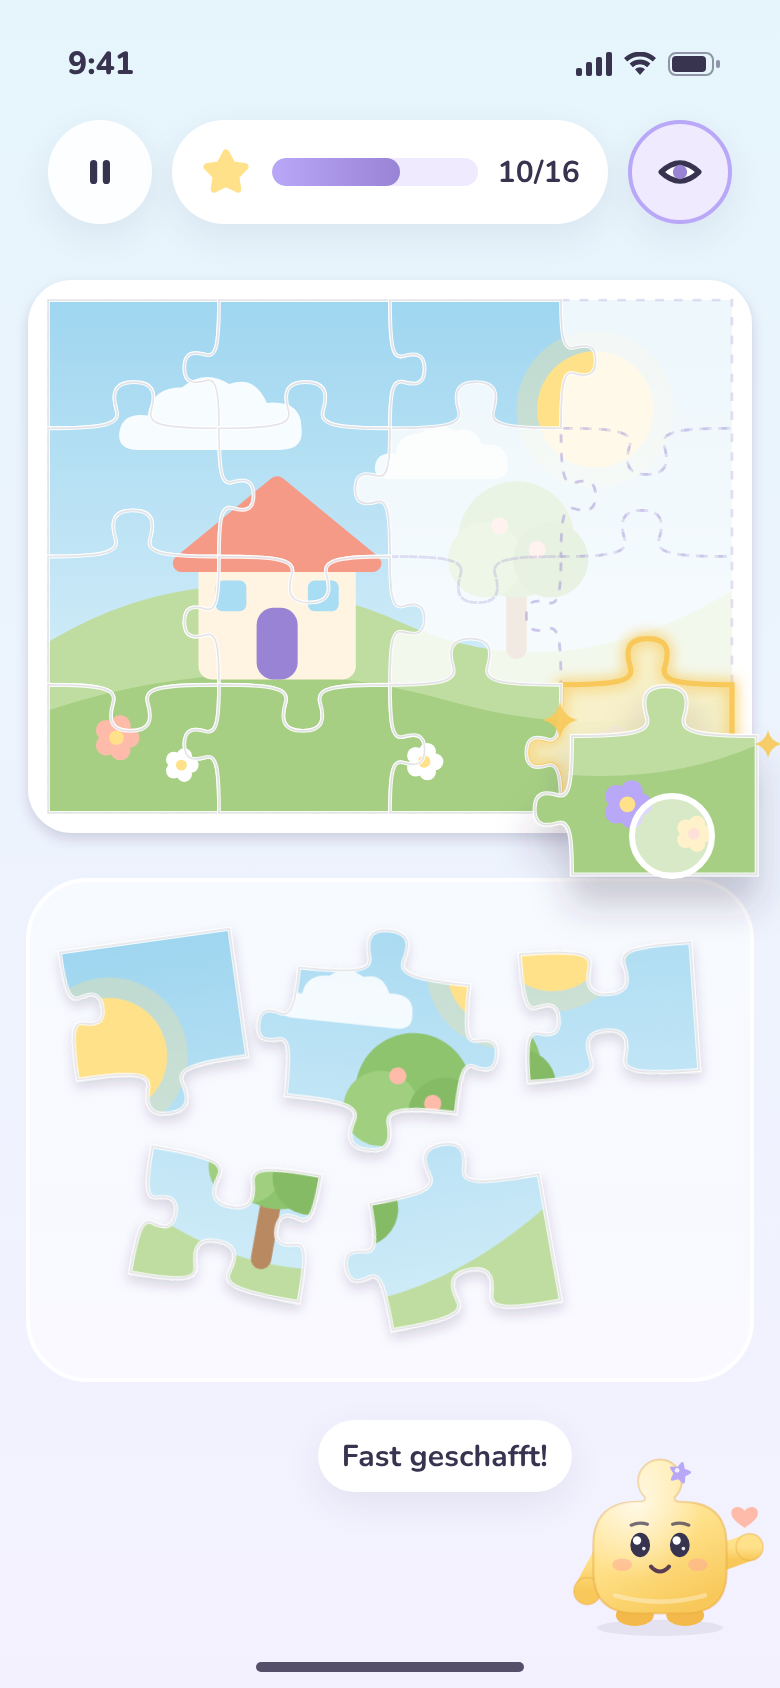
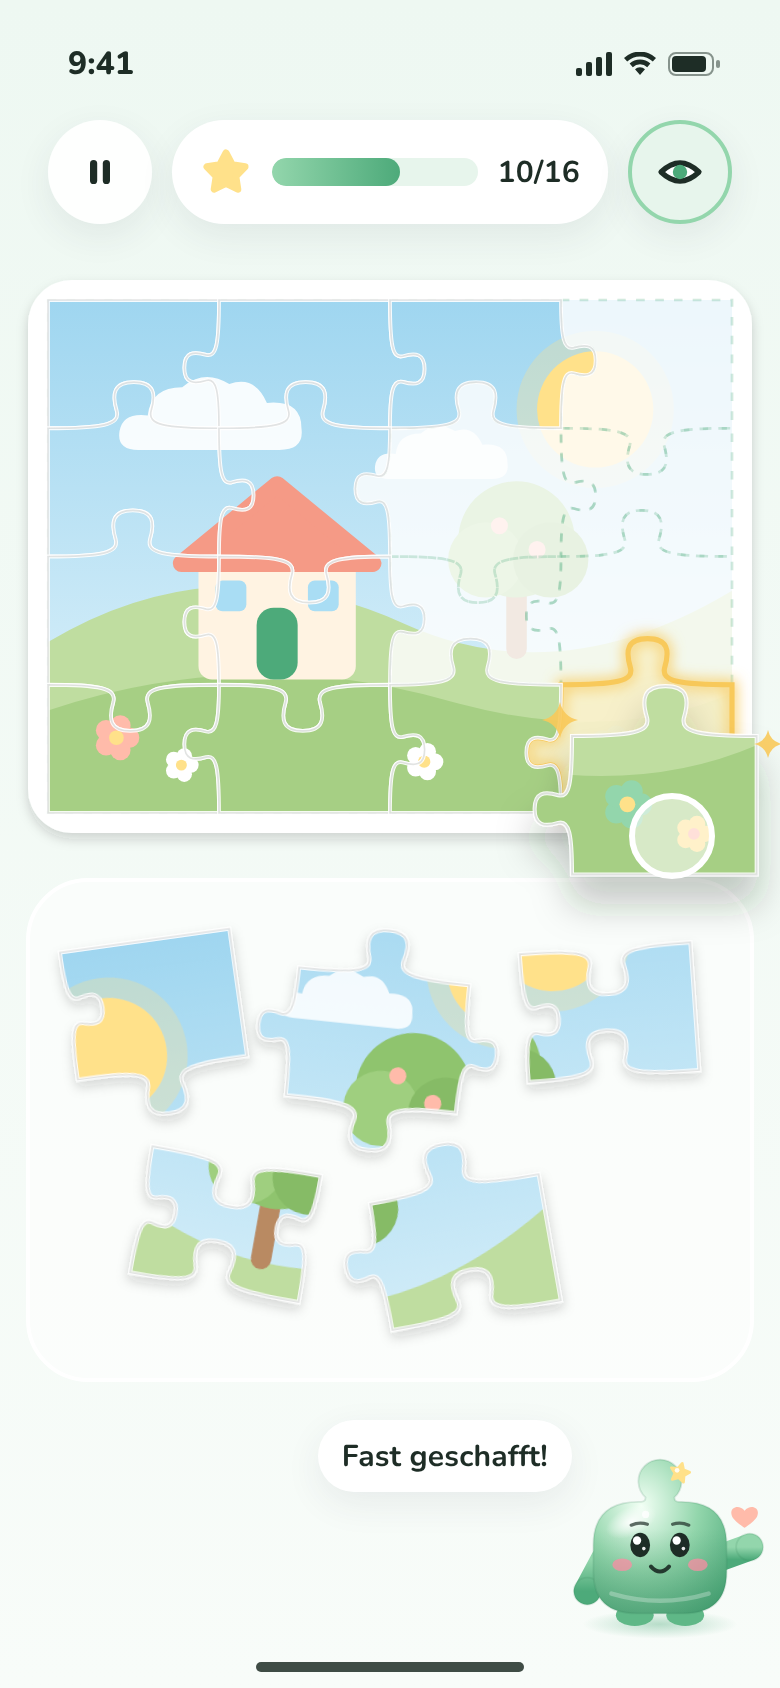
docs: describe the mint style (change 02), re-render concept mockups
Claude-Session: https://claude.ai/code/session_01CZ9FFcy5zGQryXQRGVkaUU

diff --git a/docs/design/design-system.md b/docs/design/design-system.md
@@ -5,6 +5,7 @@
 > Visuelle Übersicht: [`concept/concept-design-tokens.png`](concept/concept-design-tokens.png)
 
 **Stil:** Soft Pastel Cartoon · Whimsical Illustration · Premium Kids App · Gentle Playful UI
+**Stil-Update 2026-11-04 (PO-Referenz):** frisches **Mint/Grün** statt Lavendel/Lila, weiches glänzendes 3D beim Maskottchen, dunkelgrüne Haupt-Knöpfe mit weißer Schrift. Gelb, Himmelblau, Pfirsich bleiben Akzentfarben (Sterne, Belohnungen, Kategorien).
 Grundlage: [reference-analysis.md](reference-analysis.md)
 
 ## 1. Prinzipien
@@ -18,32 +19,32 @@ Grundlage: [reference-analysis.md](reference-analysis.md)
 
 ## 2. Farben
 
-| Rolle                | Token                              | Wert                  | Verwendung                            |
-| -------------------- | ---------------------------------- | --------------------- | ------------------------------------- |
-| Haupt-Hintergrund    | `color.background.primary`         | `#FFF8ED`             | dominante Fläche                      |
-| Sekundär-Hintergrund | `color.background.secondary`       | `#F9EAF0`             | Verläufe, Sektionen                   |
-| Marke                | `color.brand.lavender` / `.purple` | `#B9A7F8` / `#9983D4` | Wiedererkennung, Fortschritt, Auswahl |
-| Primär-Aktion        | `color.action.primary`             | `#9983D4`             | „Weiter“, „Puzzle erstellen“          |
-| Positive Aktion      | `color.action.accent`              | `#FFE18A`             | „Los geht's“, „Spielen“, Belohnung    |
-| Ergänzung            | `palette.sky`, `palette.mint`      | `#A9DDF4`, `#B7E7D1`  | Spieltisch, Erfolg                    |
-| Text primär          | `color.text.primary`               | `#38334F`             | Titel, Labels                         |
-| Text sekundär        | `color.text.secondary`             | `#6C6680`             | Fließtext (AA-konform, s. Analyse)    |
+| Rolle                | Token                                    | Wert                              | Verwendung                                                       |
+| -------------------- | ---------------------------------------- | --------------------------------- | ---------------------------------------------------------------- |
+| Haupt-Hintergrund    | `color.background.primary` (`mist`)      | `#F4FAF6`                         | dominante Fläche, Mint-Weiß                                      |
+| Sekundär-Hintergrund | `color.background.secondary` (`mist200`) | `#E8F4EC`                         | Verläufe, Sektionen                                              |
+| Marke                | `color.brand.soft` / `.main` / `.strong` | `#93D6AC` / `#4DAA7A` / `#1D4A36` | Tab-Blase, Auswahl, Fortschritt; `strong` für kleinen Markentext |
+| Haupt-Aktion         | `color.action.accent` (`forest`)         | `#1D4A36`                         | „Los geht's“, „Zum Atelier“ – weiße Schrift                      |
+| Bestätigen           | `color.action.primary` (`leaf700`)       | `#2F7F57`                         | „Weiter“, „Fertig“ – weiße Schrift                               |
+| Akzente              | `palette.yellow`, `sky`, `peach`, `pink` | `#FFE18A` …                       | Sterne, Belohnungen, Kategorie-Karten                            |
+| Text primär          | `color.text.primary` (`ink`)             | `#1E2D26`                         | Titel, Labels                                                    |
+| Text sekundär        | `color.text.secondary` (`slate`)         | `#56655D`                         | Fließtext                                                        |
 
-Tonstufen `*100` = Kartenflächen, `*600` = gedrückt/Icons, `purple700` = kleiner Text auf hellen Flächen.
+Tonstufen `*100` = Kartenflächen, `leaf600/700` = Icons/Schalter, `forest` = kleiner Markentext und Haupt-Knöpfe.
 
-**Kontrastregeln (WCAG 2.2 AA):**
+**Kontrastregeln (WCAG 2.2 AA, in `tokens.test.ts` geprüft):**
 
-- Navy auf allen Hintergründen: ≥ 9 : 1 ✅
-- Weiß auf `purple` (3,2 : 1) nur für **fette Labels ≥ 19 px** (Large Text). Kleinere Texte auf Lila → `purple700` bzw. Navy.
-- Navy auf Gelb-Button: 9,3 : 1 ✅
-- **Schalter** (`color.control.*`, WCAG 1.4.11 Nicht-Text-Kontrast ≥ 3 : 1, Phase 8): An = gefüllte Spur `purple600` mit weißem Knopf (≥ 4,1 : 1 auf allen Kartenflächen), Aus = umrandete Spur mit dunklem Knopf `greyPurple` (≥ 4,9 : 1). Der Zustand ist zusätzlich an der Knopfposition erkennbar – nie nur an der Farbe. Getestet in `packages/ui/test/tokens.test.ts`.
+- `ink` auf allen Flächen ≥ 12 : 1, `slate` ≥ 5,2 : 1 ✅
+- Weiß auf `forest` ≈ 10 : 1, auf `leaf700` ≈ 4,9 : 1 – beide Knopfvarianten für jede Schriftgröße ✅
+- `leaf600`/`leaf` nur für Flächen, Symbole und große Formen, **nie** für kleinen Text.
+- **Schalter** (`color.control.*`, WCAG 1.4.11 Nicht-Text-Kontrast ≥ 3 : 1, Phase 8): An = gefüllte Spur `leaf700` mit weißem Knopf (≥ 4,2 : 1 auf allen Kartenflächen), Aus = umrandete Spur mit dunklem Knopf `slate` (≥ 5,2 : 1). Der Zustand ist zusätzlich an der Knopfposition erkennbar – nie nur an der Farbe. Getestet in `packages/ui/test/tokens.test.ts`.
 
 ## 3. Verläufe
 
 | Token                                     | Einsatz                                            |
 | ----------------------------------------- | -------------------------------------------------- |
 | `gradient.screenWarm`                     | Standard-Hintergrund (Creme → Blush)               |
-| `gradient.screenDream`                    | Erzähl-/Creator-Screens (Lavendel-Hauch)           |
+| `gradient.screenDream`                    | Erzähl-/Creator-Screens (Mint-Hauch)               |
 | `gradient.playTable`                      | Spieltisch – kontrastarm, damit Teile hervortreten |
 | `gradient.buttonAccent` / `buttonPrimary` | Buttons (vertikal, hell → satt)                    |
 | `gradient.meadow`, `gradient.mascotBody`  | Illustration                                       |
@@ -76,7 +77,7 @@ Regeln: keine Gewichte < 600, keine Großbuchstaben-Fließtexte, Dynamic Type bi
 
 ## 6. Schatten
 
-Navy-getönt, max. zwei Ebenen pro Screen: `shadow.card` (Karten), `shadow.raised` (Buttons, Navigation), `shadow.lifted` (gezogenes Puzzleteil). Android über `elevation`.
+Grün-getönt (`ink`), max. zwei Ebenen pro Screen: `shadow.card` (Karten), `shadow.raised` (Buttons, Navigation), `shadow.lifted` (gezogenes Puzzleteil). Android über `elevation`.
 
 ## 7. Bewegung
 
@@ -114,7 +115,7 @@ Bausteine: `CloudIllustration`, `StarDecoration` (Stern, Funkeln), `Leaf`, `Flow
 | -------- | ----------------------- | --------------------------------- |
 | `meadow` | Welcome, Erfolg         | Wolken oben, Wiese + Blumen unten |
 | `sky`    | Home, Sammlung, Erfolge | 1–2 Wolken, 3–4 Sterne am Rand    |
-| `dream`  | Onboarding 2, Creator   | Lavendel-Verlauf, Wolken, Funkeln |
+| `dream`  | Onboarding 2, Creator   | Mint-Verlauf, Wolken, Funkeln     |
 | `table`  | Gameplay                | keine Dekoration (Fokus)          |
 | `calm`   | Elternbereich           | nur Verlauf                       |
 
@@ -122,7 +123,7 @@ Dekoration ist `pointerEvents="none"`, `accessible={false}` und liegt nie hinter
 
 ## 9. Ikonografie
 
-Eigene SVG-Icons (abgerundete Linien 2,6 px, zweifarbig: Navy-Kontur + Pastellfüllung; aktiv = Gelb-Füllung). Kein generisches Icon-Set als Ersatz für Illustrationen. Vorlage: `scripts/design-preview/decor.mjs` → in Phase 2 nach `packages/ui` portiert.
+Eigene SVG-Icons (abgerundete Linien 2,6 px, zweifarbig: dunkle Kontur (`ink`) + Pastellfüllung; aktiv = Gelb-Füllung). Kein generisches Icon-Set als Ersatz für Illustrationen. Vorlage: `scripts/design-preview/decor.mjs` → in Phase 2 nach `packages/ui` portiert.
 
 ## 10. Plattformkonsistenz
 

diff --git a/docs/previews/milestone-reports/2026-11-04-update-02-mint-style.md b/docs/previews/milestone-reports/2026-11-04-update-02-mint-style.md
@@ -1,0 +1,52 @@
+# Änderung 02 – Neuer Look: Mint und weiches 3D
+
+**Datum:** 2026-11-04 · **Anlass:** Wunsch des PO („Maskottchen und Farben diesem Stil anpassen“, Referenzbild mit weichem, glänzendem 3D in Mint) · Entscheidung des PO: **Mint/Grün als Grundfarbe** · **Status:** umgesetzt, wartet auf Review
+
+> Screenshots stammen aus der **laufenden App** (Web via Chromium; Android-/iOS-Läufe siehe unten). Die Pino-Übersicht ist direkt aus dem App-Code (`pinoSvg`) gerendert.
+
+## Was sich ändert
+
+| Bereich                             | Vorher                   | Jetzt                                                                                                                                                     |
+| ----------------------------------- | ------------------------ | --------------------------------------------------------------------------------------------------------------------------------------------------------- |
+| Markenfarbe                         | Lavendel / Lila          | frisches **Mint/Grün** (`leaf`-Skala), kleiner Markentext tief-grün (`forest`)                                                                            |
+| Hintergründe                        | Creme mit Rosa-Hauch     | helles **Mint-Weiß** (`mist`)                                                                                                                             |
+| Haupt-Knöpfe                        | gelb mit dunkler Schrift | **tiefgrün, glänzend, weiße Schrift** wie „Get started“ in der Referenz; „Weiter“/„Fertig“ grün                                                           |
+| Große Aktionskarte                  | heller Lila-Verlauf      | tiefgrüner Verlauf, weiße Schrift                                                                                                                         |
+| Tab-Leiste                          | lila Blase               | grüne Blase                                                                                                                                               |
+| Text                                | Navy / Grau-Lila         | grün-getöntes Fast-Schwarz (`ink`) / Grau (`slate`)                                                                                                       |
+| Schatten                            | Navy-getönt              | grün-getönt, weich                                                                                                                                        |
+| **Pino**                            | Honiggelb, Kontur        | **Mint, weiches 3D**: Licht von oben links, dunklere Unterseite, großer Glanz, grünes Leuchten am Boden, kaum Kontur; Stern-Clip jetzt gelb, Wangen rosig |
+| App-Icon, Startbild, Beispielbilder | alt                      | neu gerendert im neuen Stil                                                                                                                               |
+
+Gelb, Himmelblau, Pfirsich und Rosa bleiben als **Akzente** (Sterne, Belohnungen, Kategorie-Karten) – wie die gelbe und blaue Karte im Referenzbild.
+
+**Abgrenzung:** Aus der Referenz übernommen werden nur Licht, Material und Farbstimmung. Deren Figur (grüner Wolken-Blob) wird nicht nachgebildet – Pino bleibt ein Puzzleteil mit Stern-Clip, Armen und Füßen ([Maskottchen-Richtlinien](../../design/mascot-guidelines.md)).
+
+**Barrierefreiheit:** Alle Kontraste neu geprüft und getestet – Text ≥ 5,2 : 1, weiße Schrift auf beiden Grün-Knöpfen ≥ 4,9 : 1, Schalter ≥ 4,2 : 1.
+
+**Zentral umgesetzt:** nur Tokens (`packages/ui/src/tokens.ts`), Maskottchen-Farben (`mascot/theme.ts`) und -Zeichnung (`mascot/pino.ts`). Screens nutzen weiter nur Tokens; der Flächen-Ton `lavender` heißt jetzt `leaf`.
+
+## Bilder
+
+| Begrüßung                                                   | Start                                                    | Start mit Puzzle                                                | Atelier                                                     |
+| ----------------------------------------------------------- | -------------------------------------------------------- | --------------------------------------------------------------- | ----------------------------------------------------------- |
+| ![](../screenshots/2026-11-04-update-02-web-01-welcome.png) | ![](../screenshots/2026-11-04-update-02-web-03-home.png) | ![](../screenshots/2026-11-04-update-02-web-09-home-filled.png) | ![](../screenshots/2026-11-04-update-02-web-04-atelier.png) |
+
+| Wer puzzelt?                                                | Neues Puzzle                                            | Geschafft!                                               | Erfolge                                                    |
+| ----------------------------------------------------------- | ------------------------------------------------------- | -------------------------------------------------------- | ---------------------------------------------------------- |
+| ![](../screenshots/2026-11-04-update-02-web-02-profile.png) | ![](../screenshots/2026-11-04-update-02-web-05-new.png) | ![](../screenshots/2026-11-04-update-02-web-07-done.png) | ![](../screenshots/2026-11-04-update-02-web-08-awards.png) |
+
+**Pino in allen 8 Stimmungen** (aus dem App-Code gerendert):
+
+![](../screenshots/2026-11-04-update-02-pino-emotions.png)
+
+Die Konzept-Mockups unter `docs/design/concept/` sind mit demselben Code neu gerendert (weiterhin als Mockup gekennzeichnet).
+
+## Prüfung
+
+TypeScript, ESLint, Prettier ✅ · Tests ✅ (UI 58, App 67, Engine 91, image-processing 21, game-progression 10) · Web ohne Fehlermeldungen ✅ · Android-Emulator / iOS-Simulator: Läufe gestartet, Ergebnis wird hier nachgetragen.
+
+## Bewusst noch offen
+
+- Milchglas-Effekt (Unschärfe hinter Karten) wie in der Referenz bräuchte eine neue Abhängigkeit (`expo-blur`) – erst auf Wunsch; Karten sind weiß mit weichem grünem Schatten.
+- Feinschliff einzelner Screens nach deinem Eindruck.

diff --git a/docs/design/mascot-guidelines.md b/docs/design/mascot-guidelines.md
@@ -1,23 +1,25 @@
 # Maskottchen „Pino“
 
-Status: **Umgesetzt (Phase 2), Gestaltung noch nicht final.** Quelle: [`packages/ui/src/mascot/pino.ts`](../../packages/ui/src/mascot/pino.ts) (Zeichnung), [`theme.ts`](../../packages/ui/src/mascot/theme.ts) (Farben), App-Komponente `<Mascot emotion=… />`. Übersicht: [`concept/concept-mascot-sheet.png`](concept/concept-mascot-sheet.png).
+Status: **Umgesetzt (Phase 2), Stil-Update 2026-11-04 (Mint, weiches 3D), Gestaltung noch nicht final.** Quelle: [`packages/ui/src/mascot/pino.ts`](../../packages/ui/src/mascot/pino.ts) (Zeichnung), [`theme.ts`](../../packages/ui/src/mascot/theme.ts) (Farben), App-Komponente `<Mascot emotion=… />`. Übersicht: [`concept/concept-mascot-sheet.png`](concept/concept-mascot-sheet.png).
 Die React-Native-Komponente `<Mascot emotion="…" />` entsteht in Phase 2 aus derselben Geometrie.
 
 ## Charakter
 
 Pino ist ein kleines, weiches **Puzzleteil**. Er ist neugierig, geduldig und freut sich über jeden Fortschritt – nie ungeduldig, nie enttäuscht.
 
-| Merkmal       | Umsetzung                                                                                       |
-| ------------- | ----------------------------------------------------------------------------------------------- |
-| Silhouette    | Abgerundetes Quadrat mit Puzzle-**Tab als Kopf-„Knubbel“**, seitliche Tabs als Arme, kurze Füße |
-| Farbe         | Honiggelb-Verlauf `#FFF0B8 → #FFE18A → #F8C95A`, sanfte Kontur `#E9A93C` @45 %                  |
-| Markenzeichen | Lavendelfarbener Stern-Clip am Kopf (`#B9A7F8`) – verbindet Figur und UI-Markenfarbe            |
-| Gesicht       | Große Navy-Augen mit 2 Glanzpunkten, Peach-Wangen @55 %, kleiner Mund                           |
-| Licht         | Glanzlicht oben links, heller Bauch-Bogen                                                       |
+| Merkmal       | Umsetzung                                                                                                                                                                                                  |
+| ------------- | ---------------------------------------------------------------------------------------------------------------------------------------------------------------------------------------------------------- |
+| Silhouette    | Abgerundetes Quadrat mit Puzzle-**Tab als Kopf-„Knubbel“**, seitliche Tabs als Arme, kurze Füße                                                                                                            |
+| Farbe         | **Seit 2026-11-04 (PO-Referenz):** frisches Mint, weiches 3D – runder Lichtverlauf `#F1FFF4 → leaf #93D6AC → leaf600 #4DAA7A` von oben links, dunklere Unterseite, kaum sichtbare Kontur (`leaf700` @16 %) |
+| Markenzeichen | Gelber Stern-Clip am Kopf (`palette.yellow`) – leuchtet auf dem Grün                                                                                                                                       |
+| Gesicht       | Große dunkle Augen (`ink`) mit 2 Glanzpunkten, rosige Wangen @72 %, kleiner Mund                                                                                                                           |
+| Licht         | Großer weicher Glanz oben links + Glanzpunkt, heller Bauch-Bogen, grünes Leuchten statt grauem Schatten am Boden                                                                                           |
 
 ## Abgrenzung zur Referenz
 
-Die Referenzfigur (lila Blob mit Spross) wird **nicht** kopiert: andere Grundfarbe (Gelb statt Lila), andere Silhouette (Puzzleteil statt Tropfen), eigenes Accessoire (Stern statt Spross), eigener Name. Kein Peekaboo-Logo, keine fremden Markenbestandteile.
+Die Referenzfigur (lila Blob mit Spross) wird **nicht** kopiert: andere Silhouette (Puzzleteil statt Tropfen), eigenes Accessoire (Stern statt Spross), eigener Name. Kein Peekaboo-Logo, keine fremden Markenbestandteile.
+
+Stil-Referenz vom 2026-11-04 (weiches, glänzendes 3D in Mint, Milchglas-Karten): übernommen werden nur **Licht, Material und Farbstimmung**. Die dortige Figur (grüner Wolken-Blob) wird nicht nachgebildet – Pino bleibt ein Puzzleteil mit Stern-Clip, Armen und Füßen.
 
 ## Zustände
 
